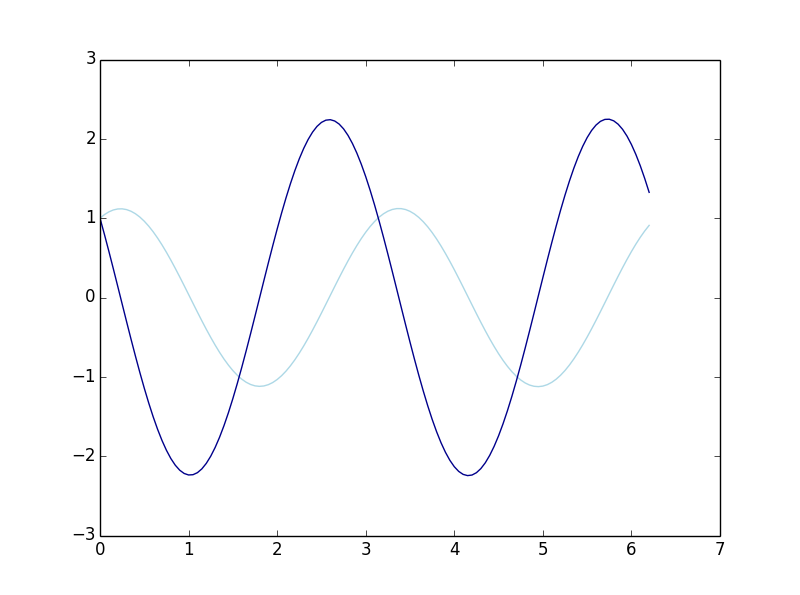
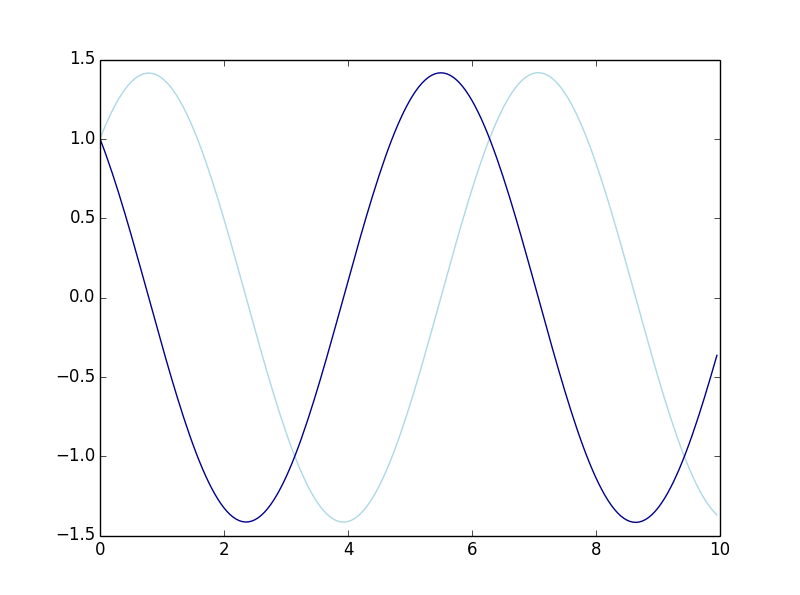
code

diff --git a/python_codes/11.py b/python_codes/11.py
@@ -32,9 +32,9 @@ R = Function('R')
 F = Function('F')
 
 formulaR = F(t)
-formulaF = -4*R(t)
+formulaF = -1*R(t)
 
-Tvals,Rvals,Fvals = numericalApproxForTwo(formulaR, formulaF, 1.0, 1.0, dt = 0.0005, steps = 12500)
+Tvals,Rvals,Fvals = numericalApproxForTwo(formulaR, formulaF, 1.0, 1.0, dt = 0.0005, steps = 20000)
 
 # component graph!
 plt.plot(Tvals,Rvals, 'lightblue',Tvals,Fvals, 'darkblue')
@@ -121,3 +121,35 @@ fg3 = directionField(formulaR, formulaF,Rdomain, Fdomain)
 plt.plot(Rvals, Fvals)
 
 fg3.show()
+
+
+# ex2
+
+R = Function('R')
+F = Function('F')
+
+formulaR = F(t)
+formulaF = 3*R(t) - R(t)**3 -2*F(t)
+
+Rdomain = np.linspace(-4,4,30)
+Fdomain = np.linspace(-5,5,30)
+
+fg4 = directionField(formulaR, formulaF,Rdomain, Fdomain)
+
+# ex
+R = Function('R')
+F = Function('F')
+
+formulaR = 2*R(t)*(1- R(t)/2.0) - F(t)*R(t)
+formulaF = 3*F(t)*(1- F(t)/3.0) - 2*R(t)*F(t)
+
+Rdomain = np.linspace(0,4,30)
+Fdomain = np.linspace(0,4,30)
+
+fg5 = directionField(formulaR, formulaF,Rdomain, Fdomain)
+points = [(0.3,0.2),(0.5,0.2)]
+for point in points:
+    Tvals,Rvals,Fvals = numericalApproxForTwo(formulaR, formulaF, point[0], point[1], dt = 0.001, steps = 20000)
+    plt.plot(Rvals, Fvals)
+
+fg5.show()
